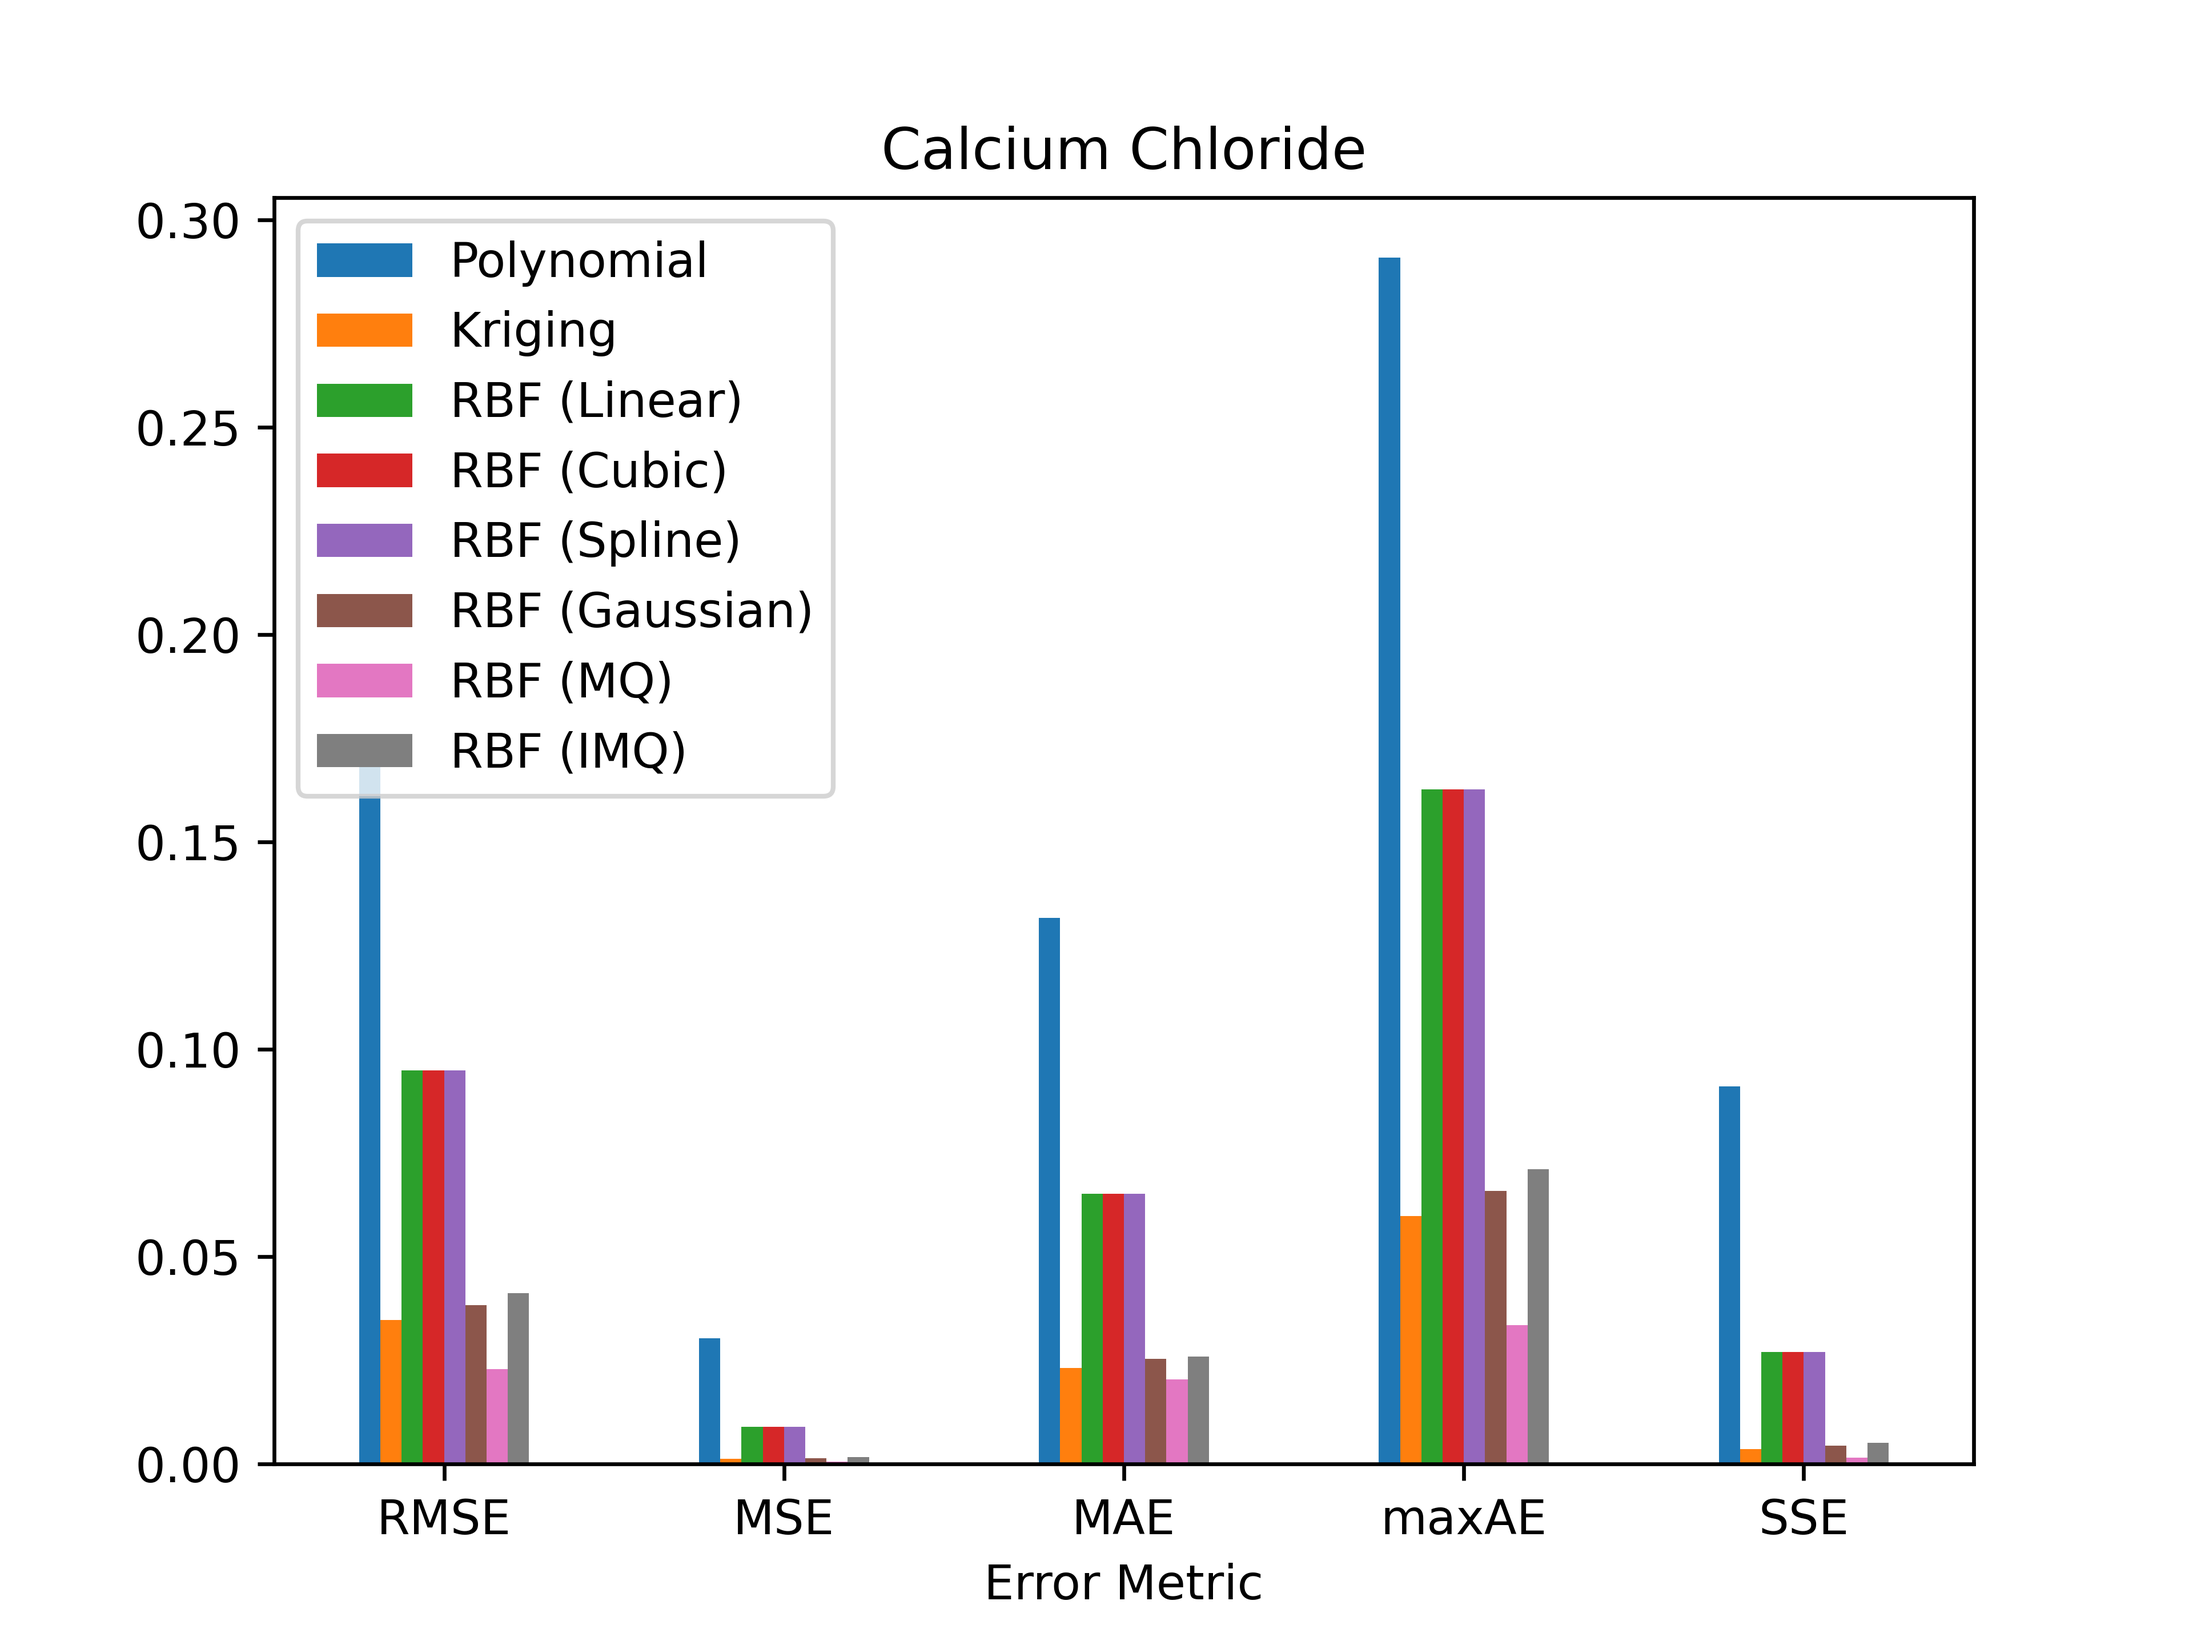
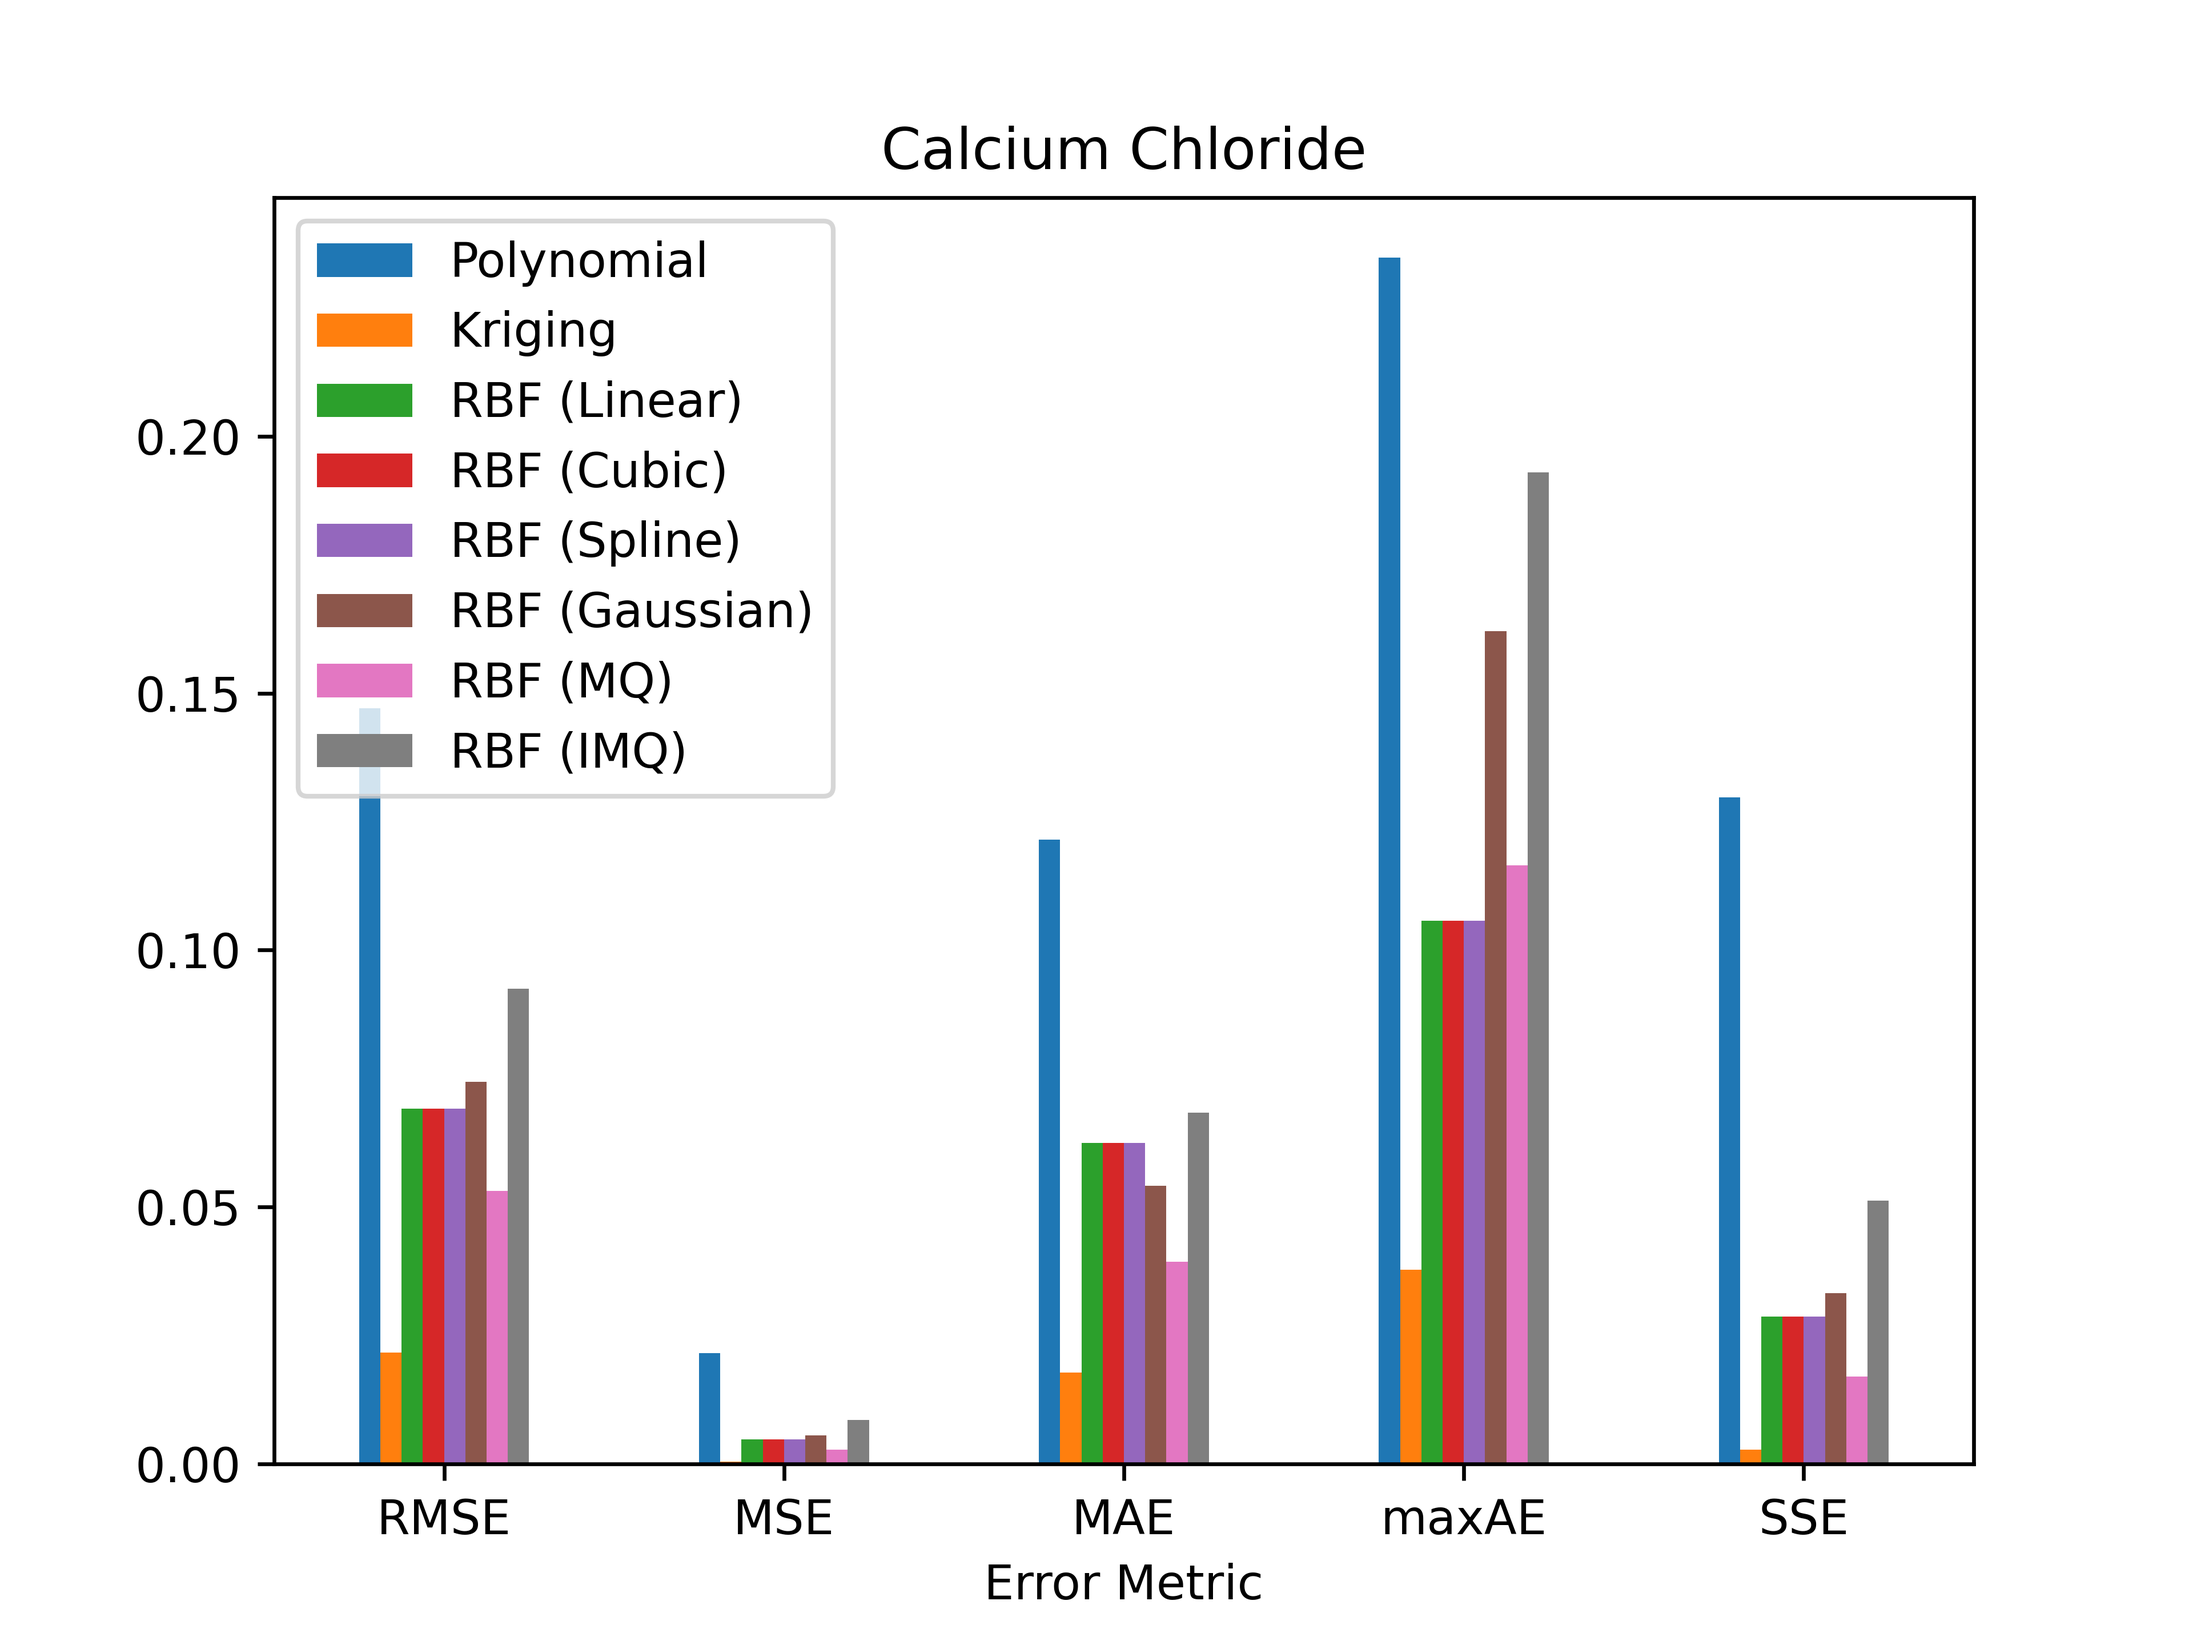
trained surrogates Na, Ca, La with feed flow input

diff --git a/src/prommis/nanofiltration/surrogate_model_analysis/train_surrogate_model.py b/src/prommis/nanofiltration/surrogate_model_analysis/train_surrogate_model.py
@@ -35,7 +35,7 @@ def main():
         solute="La", salt="Lanthanum Chloride", length_scale="tube"
     )
 
-    generate_mixed_salt_analysis(length_scale="tube")
+    # generate_mixed_salt_analysis(length_scale="tube")
 
     # generate_per_salt_analysis(
     #     solute="Na", salt="Sodium Chloride", length_scale="stage"
@@ -183,10 +183,10 @@ def train_polynomial_surrogate_model(datafile, max_order=4, visualize=False):
     data = read_csv(datafile)
 
     # define input and output labels
-    input_labels = ["feed_conc", "pressure"]
+    input_labels = ["feed_conc", "pressure", "feed_flow"]
     output_labels = ["ion_flux"]
-    xmin = [25, 5]
-    xmax = [200, 15]
+    xmin = [25, 5, 10]
+    xmax = [200, 15, 17]
     input_bounds = {
         input_labels[i]: (xmin[i], xmax[i]) for i in range(len(input_labels))
     }
@@ -246,10 +246,10 @@ def train_kriging_surrogate_model(datafile, visualize=False):
     data = read_csv(datafile)
 
     # define input and output labels
-    input_labels = ["feed_conc", "pressure"]
+    input_labels = ["feed_conc", "pressure", "feed_flow"]
     output_labels = ["ion_flux"]
-    xmin = [25, 5]
-    xmax = [200, 15]
+    xmin = [25, 5, 10]
+    xmax = [200, 15, 17]
     input_bounds = {
         input_labels[i]: (xmin[i], xmax[i]) for i in range(len(input_labels))
     }
@@ -306,10 +306,10 @@ def train_rbf_surrogate_model(datafile, basis_func="cubic", visualize=False):
     data = read_csv(datafile)
 
     # define input and output labels
-    input_labels = ["feed_conc", "pressure"]
+    input_labels = ["feed_conc", "pressure", "feed_flow"]
     output_labels = ["ion_flux"]
-    xmin = [25, 5]
-    xmax = [200, 15]
+    xmin = [25, 5, 10]
+    xmax = [200, 15, 17]
     input_bounds = {
         input_labels[i]: (xmin[i], xmax[i]) for i in range(len(input_labels))
     }
